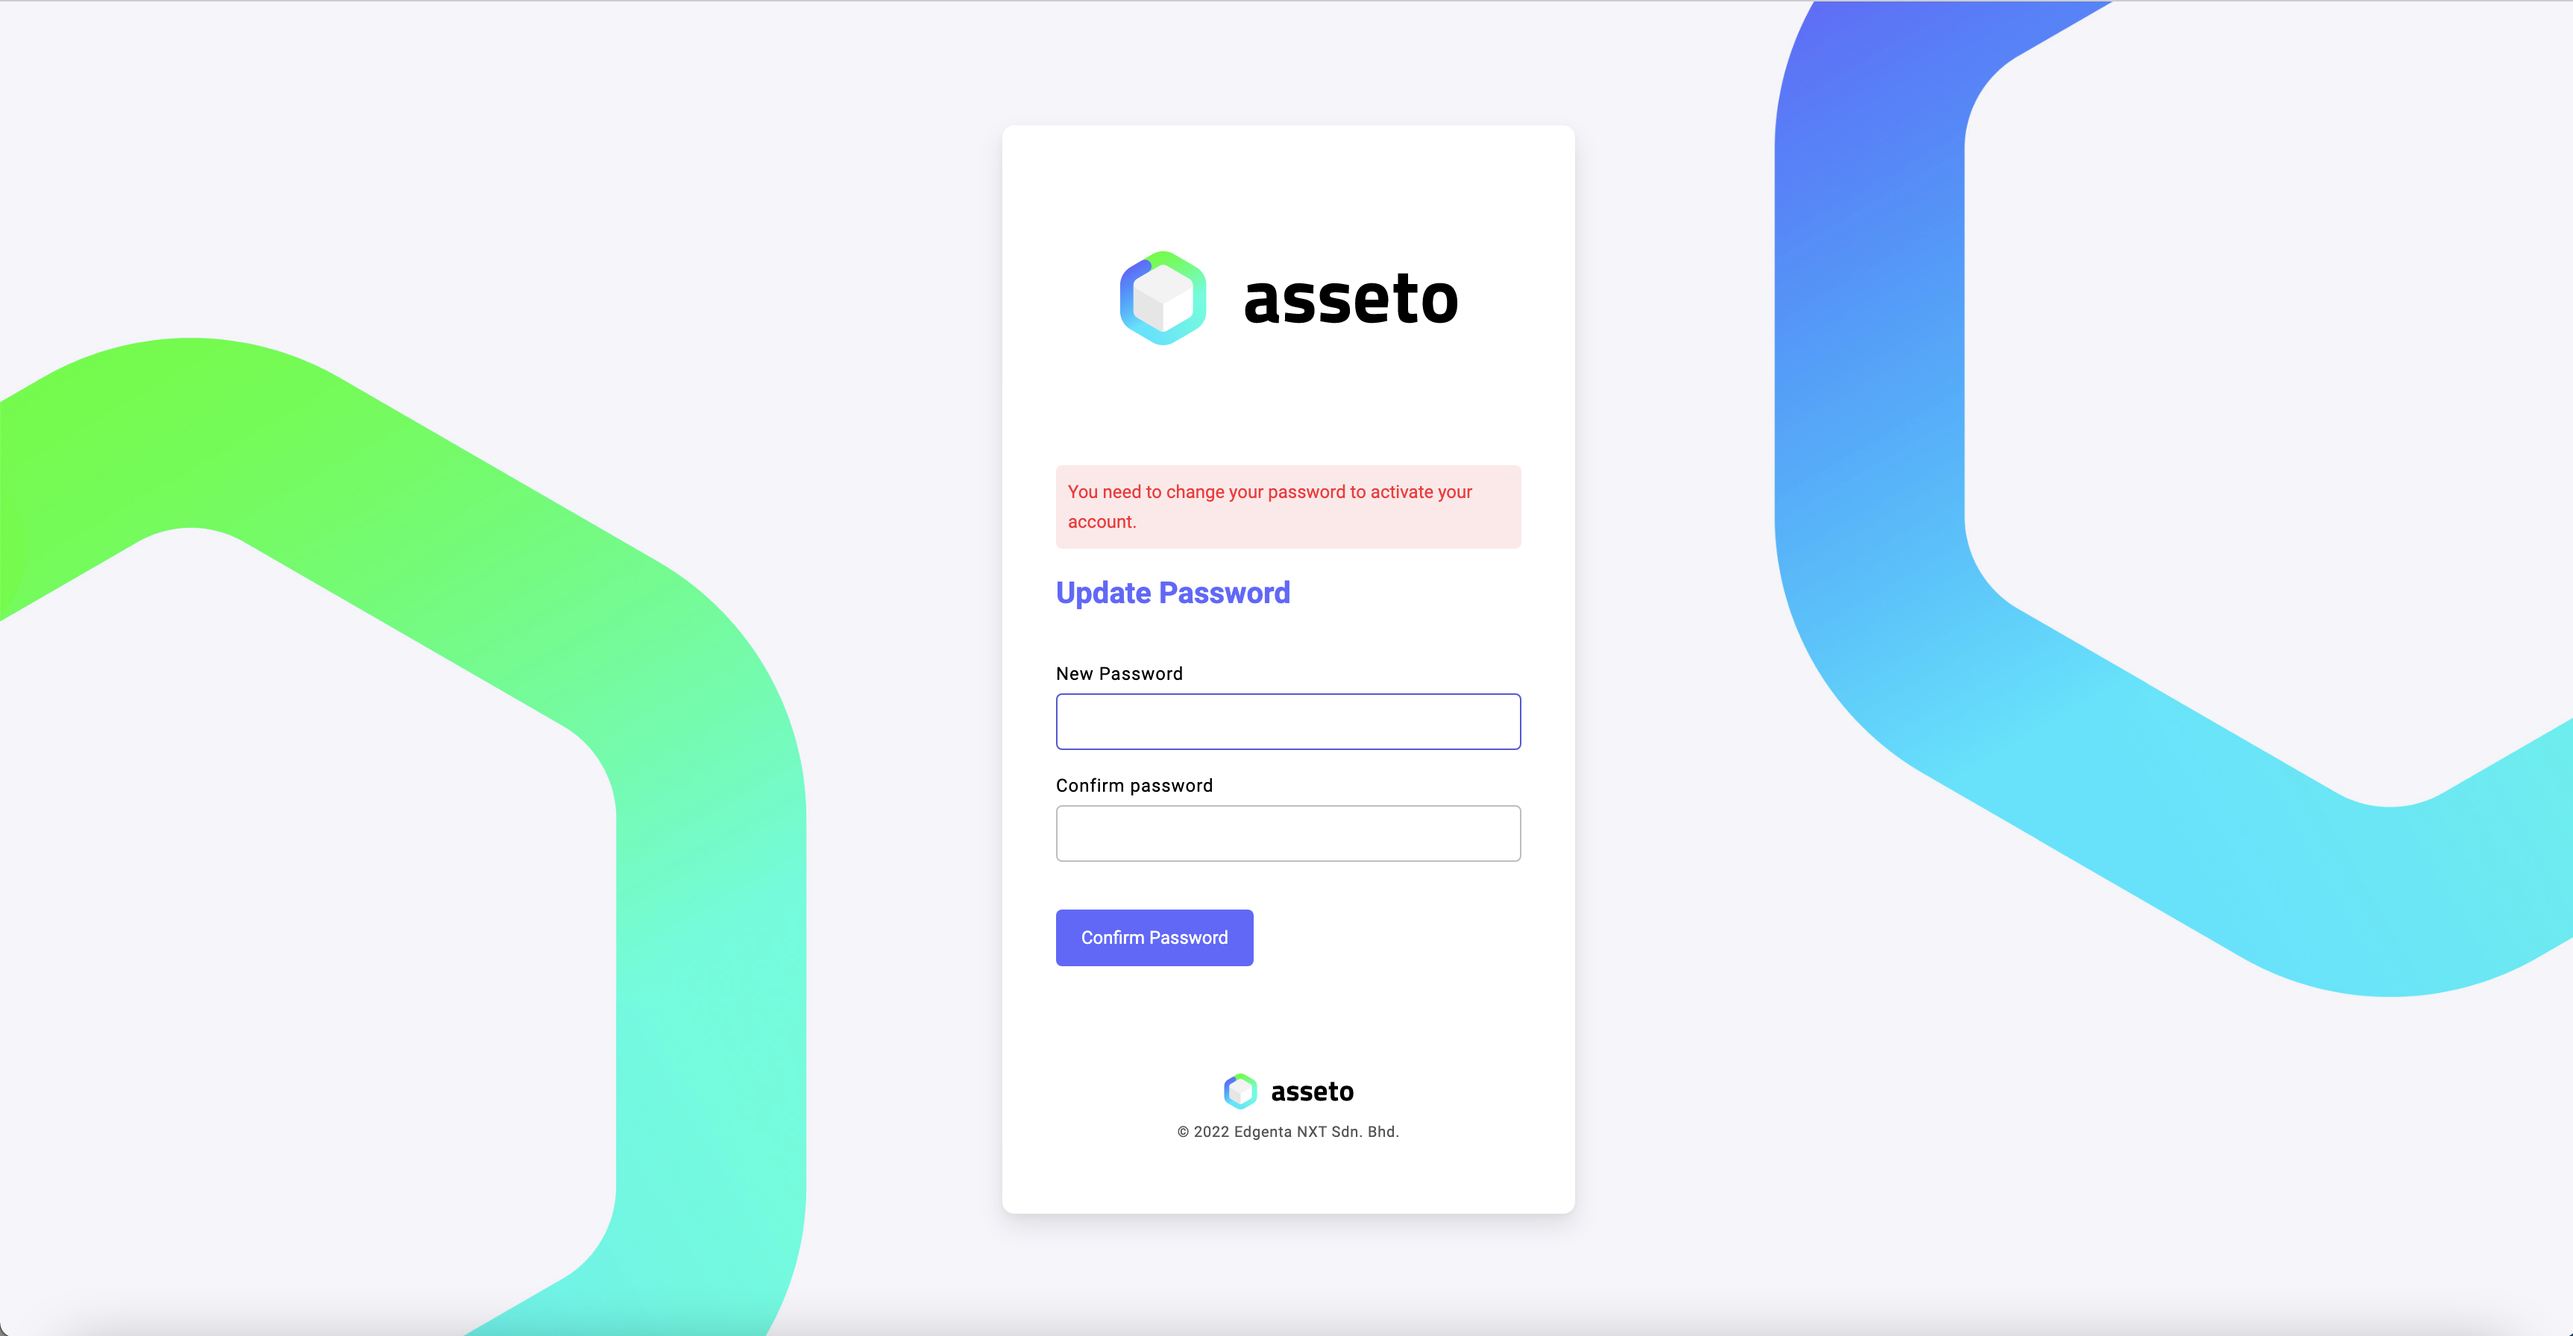
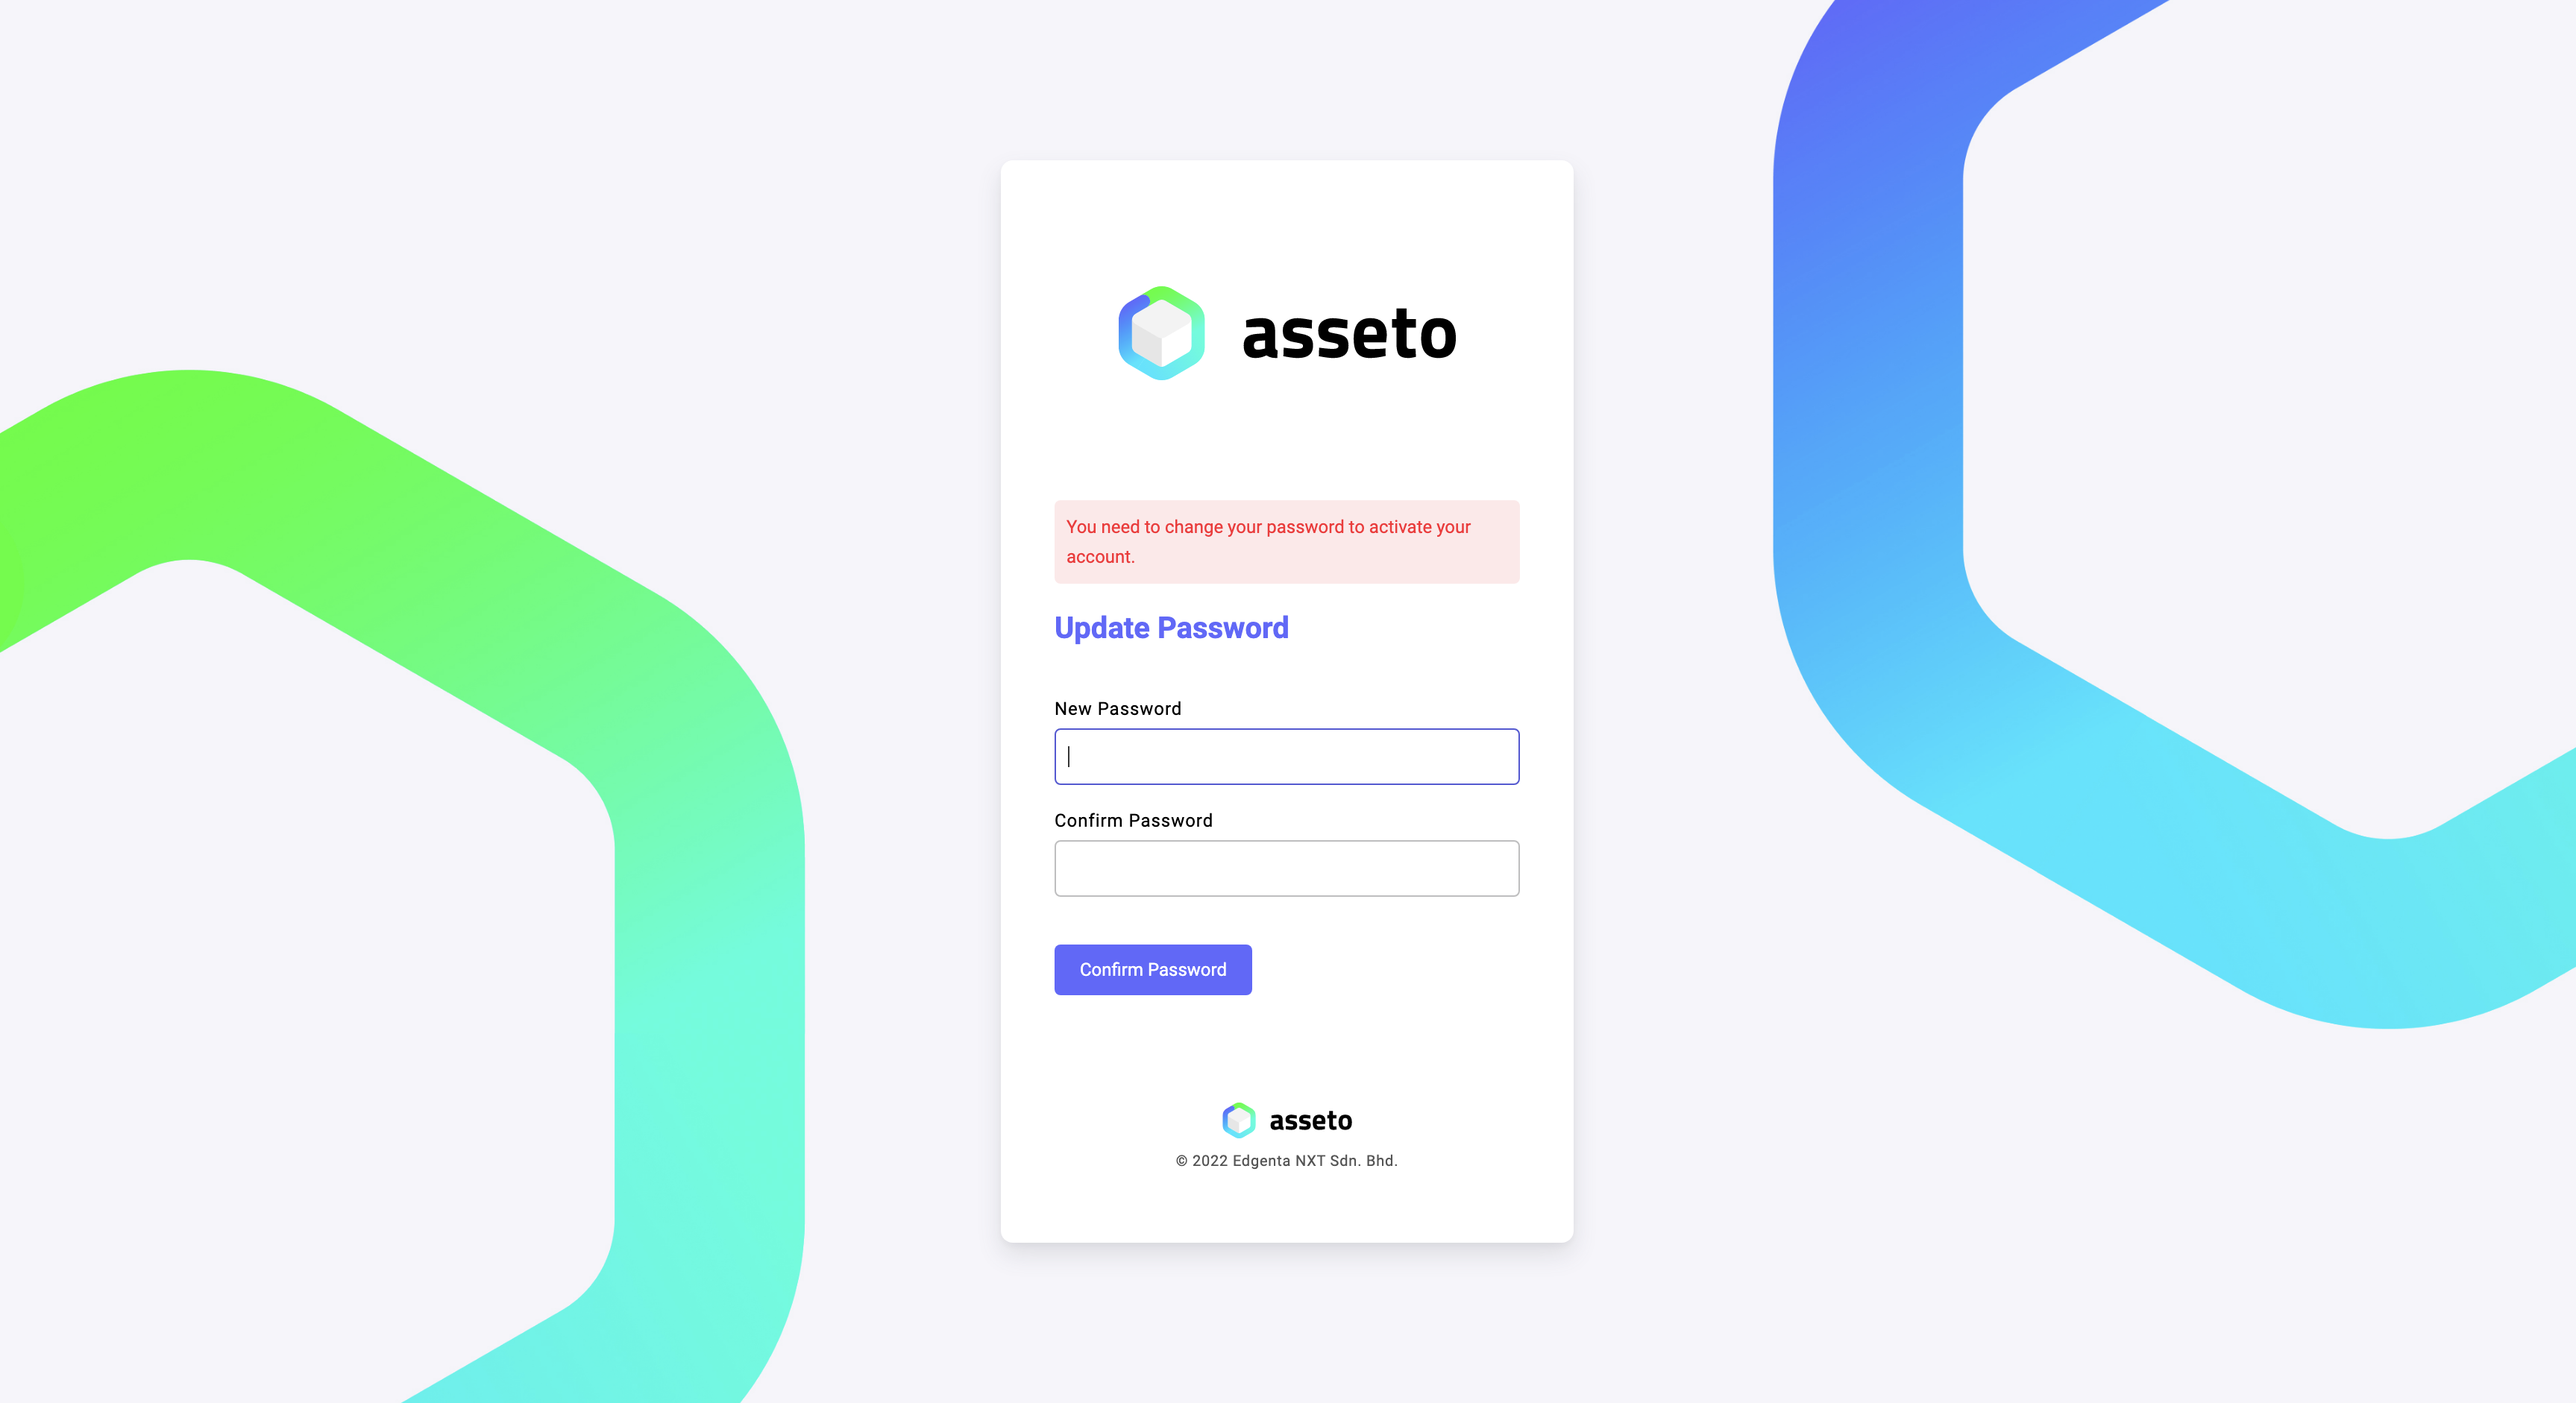
First version 1.56

diff --git a/projects/nxt-ui-lib-test/src/app/layouts/layouts.component.html b/projects/nxt-ui-lib-test/src/app/layouts/layouts.component.html
@@ -13,6 +13,7 @@
             <mat-nav-list-item [ngClass]="{'left-title-active':scrollViewDevId == 'section5'}" (click)="scroll('section5')"> Section 5</mat-nav-list-item>
             <mat-nav-list-item [ngClass]="{'left-title-active':scrollViewDevId == 'section6'}" (click)="scroll('section6')"> Section 6</mat-nav-list-item>
             <mat-nav-list-item [ngClass]="{'left-title-active':scrollViewDevId == 'section7'}" (click)="scroll('section7')"> Section 7</mat-nav-list-item>
+            <mat-nav-list-item [ngClass]="{'left-title-active':scrollViewDevId == 'section7'}" (click)="scroll('section8')"> Section 8</mat-nav-list-item>
         </mat-nav-list>
     </div>
     <mat-divider style="border: 0.5px solid #E7E7EC;"></mat-divider>
@@ -73,9 +74,9 @@
       </div>
         <mat-divider style=" color: #E7E7EC"></mat-divider>
     
-        <div class="section-container">
+        <div class="section-container" id="section2">
             <div class="title-container">
-                <div class="section-title" #section2 id="section2" >Section 2</div>
+                <div class="section-title" #section2  >Section 2</div>
                 <div style="cursor: pointer;" (click)="openInfoDialog()"> <img src="../../assets/images/Icon-Info.svg" /></div>
             </div>
             <div class="section-grid-fields">
@@ -131,9 +132,9 @@
     
         <mat-divider style=" color: #E7E7EC"></mat-divider>
     
-        <div class="section-container">
+        <div class="section-container" id="section3">
             <div class="title-container">
-                <div class="section-title" #section3 id="section3" >Section 3</div>
+                <div class="section-title" #section3  >Section 3</div>
                 <div style="cursor: pointer;" (click)="openInfoDialog()"> <img src="../../assets/images/Icon-Info.svg" /></div>
             </div>
             <div class="section-grid-fields">
@@ -187,9 +188,9 @@
     
         </div>
         <mat-divider style=" color: #E7E7EC"></mat-divider>
-        <div class="section-container">
+        <div class="section-container" id="section4">
             <div class="title-container">
-                <div class="section-title" #section4 id="section4">Section 4</div>
+                <div class="section-title" #section4 >Section 4</div>
                 <div style="cursor: pointer;" (click)="openInfoDialog()"> <img src="../../assets/images/Icon-Info.svg" /></div>
             </div>
             <div class="section-grid-fields">
@@ -218,9 +219,9 @@
         </div>
         </div>
         <mat-divider style=" color: #E7E7EC"></mat-divider>
-        <div class="section-container">
+        <div class="section-container" id="section5">
             <div class="title-container">
-                <div class="section-title" #section5 id="section5">Section 5</div>
+                <div class="section-title" #section5 >Section 5</div>
                 <div style="cursor: pointer;" (click)="openInfoDialog()"> <img src="../../assets/images/Icon-Info.svg" /></div>
             </div>
             <div class="section-grid-fields">
@@ -236,12 +237,12 @@
               </div>
         </div>
         <mat-divider style=" color: #E7E7EC"></mat-divider>
-        <div class="section-container">
+        <div class="section-container" id="section6">
             <div class="title-container">
-                <div class="section-title" #section6 id="section6">Section 6</div>
+                <div class="section-title" #section6 >Section 6</div>
                 <div style="cursor: pointer;" (click)="openInfoDialog()"> <img src="../../assets/images/Icon-Info.svg" /></div>
             </div>
-            <div class="section-grid-fields">
+            <div class="section-grid-fields card-grid">
                 <mat-card class="mat-elevation-z0" style="border: 2px solid #5F68FF;border-radius: 8px; ">
                     <mat-card-content>
                         <div class="user-card-content">
@@ -286,9 +287,9 @@
 
     
         <mat-divider style=" color: #E7E7EC"></mat-divider>
-        <div class="section-container">
+        <div class="section-container" id="section7">
             <div class="title-container">
-                <div class="section-title" #section7 id="section7">Section 7</div>
+                <div class="section-title" #section7 >Section 7</div>
                 <div style="cursor: pointer;" (click)="openInfoDialog()"> <img src="../../assets/images/Icon-Info.svg" /></div>
             </div>
             <div class="section-grid-fields">
@@ -303,6 +304,29 @@
                 </mat-form-field>
                 <div class="field-with-button-align">
                     <button mat-stroked-button style="border-radius:4px ;" color="primary" > Button <mat-icon  >search</mat-icon></button>
+            
+                </div>
+              </div>
+        </div>
+
+        <mat-divider style=" color: #E7E7EC"></mat-divider>
+        <div class="section-container" id="section8">
+            <div class="title-container">
+                <div class="section-title" #section7 >Section 8</div>
+                <div style="cursor: pointer;" (click)="openInfoDialog()"> <img src="../../assets/images/Icon-Info.svg" /></div>
+            </div>
+            <div class="section-grid-fields">
+    
+                <mat-form-field appearance="outline" [style.fontSize.px]="14" class="matform-full-width">
+                    <mat-label>Mandatory Select</mat-label>
+                    <mat-select required>
+                        <mat-option *ngFor="let food of foods" value="food.viewValue">
+                            {{food.viewValue}}
+                        </mat-option>
+                    </mat-select>
+                </mat-form-field>
+                <div class="field-with-button-align button-left-icon">
+                    <button mat-stroked-button style="border-radius:4px ;" color="primary" ><mat-icon  >search</mat-icon>  Button </button>
             
                 </div>
               </div>

diff --git a/projects/nxt-ui-lib-test/src/app/layouts/layouts.component.scss b/projects/nxt-ui-lib-test/src/app/layouts/layouts.component.scss
@@ -224,7 +224,7 @@ mat-nav-list-item:active, mat-nav-list-item:focus {
         .layout-grid {
             display: grid;
             grid-template-columns: 200px 0.1px auto;
-            gap:16px;
+            // gap:16px;
         }
     .section-grid-fields{
         grid-template-columns: repeat(auto-fit, minmax(200px, 1fr));
@@ -251,12 +251,24 @@ mat-nav-list-item:active, mat-nav-list-item:focus {
     justify-content: space-between;
 }
 
-::ng-deep .mat-icon{
-    margin-right: 0px -4px 0px 4px;
+::ng-deep .field-with-button-align  .mat-icon{
+    margin: 0px -4px 0px 4px;
     font-size: 16px;
-    width: 16px;
-    height: 16px ;
+    width: 16px !important;
+    height: 16px !important;
+}
+::ng-deep .button-left-icon .mat-icon{
+    margin: 0px 4px 0px -4px;
+    font-size: 16px;
+    width: 16px !important;
+    height: 16px !important;
 }
 .left-title-active{
     color: #5960EB;
+}
+.card-grid{
+    display: grid;
+    grid-gap: 24px;
+    max-width: 100%;
+    grid-template-columns: repeat(auto-fill, minmax(300px, 1fr));
 }

diff --git a/projects/nxt-ui-lib-test/src/app/keycloak-pages/keycloak-pages.component.html b/projects/nxt-ui-lib-test/src/app/keycloak-pages/keycloak-pages.component.html
@@ -4,7 +4,7 @@
 <div class="keycloak-main-container">
 <div class="input-grid">
     <div class="img-container">
-        <img src="../../assets/images/keycloak_login.png">
+        <img src="../../assets/images/keycloak_loginV3.png">
     </div>
     <br>
     <div class="img-container">
